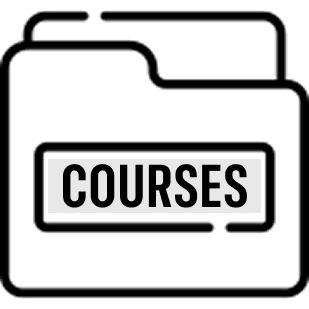
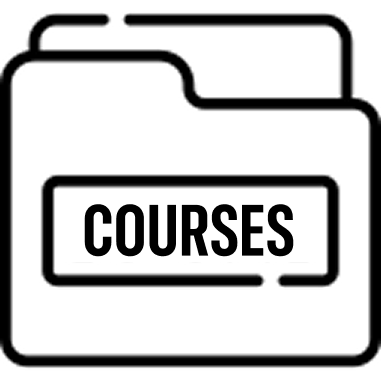
Fix Study Generator

Changed region(s): [[0.2039, 0.5243, 0.8155, 0.699]]

diff --git a/src/App.tsx b/src/App.tsx
@@ -38,7 +38,7 @@ useEffect(() => {
 
   return (
   <>
-    <section className="h-auto xl:h-screen w-full">
+    <section className="h-auto xl:h-screen w-full ">
       <nav className=" px-2 md:px-6 lg:px-6 xl:px-6 2xl:px-6 py-2 flex items-center justify-between mt-3 md:mt-3 lg:mt-0 xl:mt-0 2xl:mt-0 ">
         {/* LOGO */}
         <img src="./logo.png" alt="logo" className="pl-2 h-10 md:pl-5 md:h-16 lg:pl-5 lg:h-16 xl:pl-5 xl:h-16 2xl:pl-5 2xl:h-16 w-auto" />
@@ -111,7 +111,7 @@ useEffect(() => {
           md:text-[28px]
           lg:text-[40px]
           xl:text-[55px]
-          2xl:text-[65px] 
+          2xl:text-[60px] 
           uppercase '
           >start your day by being productive.</p>
           <p className='text-primary-600 font-fustat font-medium 
@@ -150,7 +150,7 @@ useEffect(() => {
             <img src="./landImg.png" alt="landing img" 
             className=' w-[120px] h-[100px] 
             md:min-w-[250px] md:min-h-[260px] md:pt-12
-            lg:min-w-[290px] lg:min-h-[320px] lg:pt-14
+            lg:min-w-[350px] lg:min-h-[360px] lg:pt-14
             xl:min-w-[400px] xl:min-h-[450px] xl:pt-16
             2xl:min-w-[550px] 2xl:min-h-[580px] object-center' />
         </div>
@@ -161,8 +161,8 @@ useEffect(() => {
       <hr className='lg:hidden md:hidden mt-4  w-full border-t opacity-5 border-primary-600 ' />
 
       <section className='w-full mt-4 md:mt-10'>
-        <div className='flex flex-col px-4 md:px-10 lg:px-[110px] xl:px-[180px] 2xl:px-[350px] mb-10'>
-          <p className='flex flex-wrap justify-center items-center gap-x-1 font-fustat text-primary-600 text-sm md:text-lg 2xl:text-2xl mb-10 px-4 text-center'>
+        <div className='flex flex-col px-4 md:px-10 lg:px-[110px] xl:px-[180px] 2xl:px-[350px] mb-20'>
+          <p className='flex flex-wrap justify-center items-center  gap-x-1 font-fustat text-primary-600 text-sm md:text-lg 2xl:text-2xl lg:mb-20 xl:mb-24 2xl:mb-32 px-4 text-center'>
             <span>Your all-in-one study companion &mdash;</span>
             <b>plan, organize,</b>
             <span>and</span>
@@ -386,102 +386,108 @@ useEffect(() => {
     )}
  {/*Developers Section*/}
 <section ref={aboutRef} className="py-10 w-full flex flex-col justify-center">
-    <div className='flex flex-col mt-10 gap-2 justify-center items-center'>
-    <h1 className='text-primary-600 px-4 text-center md:px-[50px] lg:px-[130px] xl:px-[180px] 2xl:px-[350px] w-full font-inter font-extrabold'>Developers</h1>
-    <p className='text-primary-600 font-inter px-4 text-center md:px-[50px] lg:px-[130px] xl:px-[180px] 2xl:px-[350px] mb-10 font-medium'>Meet the developers of Study Buddy.</p>
+    <div className='flex flex-col mt-10 gap-2 justify-center items-center md:items-start'>
+    <h1 className='text-primary-600 px- 4 text-center md:text-left md:px-[50px] lg:px-[150px] xl:px-[180px] 2xl:px-[350px] w-full font-inter font-extrabold'>Developers</h1>
+    <p className='text-primary-600 px-4   font-inter  text-center md:ml-0 md:text-left md:px-[50px] lg:px-0 xl:px-[30px] 2xl:px-[350px] mb-10 font-medium'>Meet the developers of Study Buddy.</p>
 
     {/*Proponents*/}
-    <div className='flex flex-col mt-2 gap-10 px-4 md:px-[60px] lg:px-[160px] xl:px-[200px] 2xl:px-[450px] w-full'>
+<div className='flex flex-col md:flex-row justify-between items-start w-full max-w-6xl mx-auto gap-12 md:gap-8 px-4 md:px-[60px] lg:px-[100px] xl:px-[120px] 2xl:px-[80px]'>
 
-      {/*Programmer & Project Manager*/}
-      <div className='flex flex-col md:flex-row justify-between items-center w-full gap-8 md:gap-0'>
-        <div className='flex flex-row gap-5'>
-          <img src="./profile.png" alt="Programmer"   className='w-16 md:w-24 lg:w-20 2xl:w-28 border border-primary-600 rounded-full shrink-0 select-none'
-            onContextMenu={(e) => e.preventDefault()}
-            draggable={false}/>
-          <div className='flex flex-col justify-center items-start'>
-            <p className='text-primary-600 text-sm md:text-lg lg:text-[16px] 2xl:text-[20px] font-fustat font-extrabold uppercase'>Programmer</p>
-            <p className='text-primary-600 text-xs md:text-md lg:text-[14px] 2xl:text-[16px] font-fustat font-medium'>Casey P. Dellamas</p>
-              <a href="https://mail.google.com/mail/?view=cm&fs=1&to=dellamascasey@gmail.com"
-              target="_blank"
-              rel="noopener noreferrer"
-              title='Email Programmer'
-              className='flex flex-row hover:underline  mt-1 justify-center items-center gap-5'
-            >
+  {/*Column 1: Programmer & QA Tester*/}
+  <div className='flex flex-col gap-10 w-full md:w-1/2'>
 
-              <p className='text-primary-600 text-xs md:text-md lg:text-[14px] 2xl:text-[16px] font-fustat font-medium'>
-              dellamascasey@gmail.com
-              </p>
-            </a>
-          </div>
-        </div>
-        <div className='flex flex-row gap-5'>
-          <img src="./profile.png" alt="Project Manager"   className='w-16 md:w-24 lg:w-20 2xl:w-28 border border-primary-600 rounded-full shrink-0 select-none'
-  onContextMenu={(e) => e.preventDefault()}
-  draggable={false}/>
-          <div className='flex flex-col justify-center items-start'>
-            <p className='text-primary-600 text-sm md:text-lg lg:text-[16px] 2xl:text-[20px] font-fustat font-extrabold uppercase'>Project Manager</p>
-            <p className='text-primary-600 text-xs md:text-md lg:text-[14px] 2xl:text-[16px] font-fustat font-medium'>Eunice Jayce F. De Vero</p>
-            <a href="https://mail.google.com/mail/?view=cm&fs=1&to=eunicedevero@gmail.com"
-              target="_blank"
-              rel="noopener noreferrer"
-              title='Email Project Manager'
-              className='flex flex-row hover:underline  mt-1 justify-center items-center gap-5'
-            >
-
-              <p className='text-primary-600 text-xs md:text-md lg:text-[14px] 2xl:text-[16px] font-fustat font-medium'>
-              eunicedevero@gmail.com
-              </p>
-            </a>
-          </div>
-        </div>
+    {/*Programmer*/}
+    <div className='flex flex-row gap-5'>
+      <img src="./profile.png" alt="Programmer" className='w-16 h-16 md:w-24 md:h-24 lg:w-28 lg:h-28 2xl:w-32 2xl:h-32 object-cover border border-primary-600 rounded-full shrink-0 select-none'
+        onContextMenu={(e) => e.preventDefault()}
+        draggable={false}/>
+      <div className='flex flex-col justify-center items-start'>
+        <p className='text-primary-600 text-sm md:text-lg lg:text-[16px] 2xl:text-[20px] font-fustat font-extrabold uppercase'>Programmer</p>
+        <p className='text-primary-600 text-xs md:text-md lg:text-[14px] 2xl:text-[16px] font-fustat font-medium'>Casey P. Dellamas</p>
+        <a href="https://mail.google.com/mail/?view=cm&fs=1&to=dellamascasey@gmail.com"
+          target="_blank"
+          rel="noopener noreferrer"
+          title='Email Programmer'
+          className='flex flex-row hover:underline mt-1 justify-center items-center gap-5'
+        >
+          <p className='text-primary-600 text-xs md:text-md lg:text-[14px] 2xl:text-[16px] font-fustat font-medium'>
+          dellamascasey@gmail.com
+          </p>
+        </a>
       </div>
-
-      {/*QA Tester & UI Designer*/}
-      <div className='flex flex-col md:flex-row justify-between items-center md:items-end lg:items-end 2xl:items-end w-full gap-8 md:gap-0'>
-        <div className='flex flex-row gap-5'>
-          <img src="./QATester.jpg" alt="QA Tester"   className='w-16 md:w-24 lg:w-20 2xl:w-28 border border-primary-600 rounded-full shrink-0 select-none'
-  onContextMenu={(e) => e.preventDefault()}
-  draggable={false}/>
-          <div className='flex flex-col justify-center items-start'>
-            <p className='text-primary-600 text-sm md:text-lg lg:text-[16px] 2xl:text-[20px] font-fustat font-extrabold uppercase'>QA Tester</p>
-            <p className='text-primary-600 text-xs md:text-md lg:text-[14px] 2xl:text-[16px] font-fustat font-medium'>Joshua L. Mejia</p>
-            <a href="https://mail.google.com/mail/?view=cm&fs=1&to=joshuamejia2266@gmail.com"
-              target="_blank"
-              rel="noopener noreferrer"
-              title='Email QA Tester'
-              className='flex flex-row hover:underline  mt-1 justify-center items-center gap-5'
-            >
-
-              <p className='text-primary-600 text-xs md:text-md lg:text-[14px] 2xl:text-[16px] font-fustat font-medium'>
-              joshuamejia2266@gmail.com
-              </p>
-            </a>
-          </div>
-        </div>
-        <div className='flex flex-row gap-5'>
-          <img src="./UIDesigner.jpg" alt="UI Designer"   className='w-16 md:w-24 lg:w-20 2xl:w-28 border border-primary-600 rounded-full shrink-0 select-none'
-  onContextMenu={(e) => e.preventDefault()}
-  draggable={false}/>
-          <div className='flex flex-col justify-center items-start'>
-            <p className='text-primary-600 text-sm md:text-lg lg:text-[16px] 2xl:text-[20px] font-fustat font-extrabold uppercase'>UI Designer</p>
-            <p className='text-primary-600 text-xs md:text-md lg:text-[14px] 2xl:text-[16px] font-fustat font-medium'>Jerwin L. Zamorao</p>
-            <a href="https://mail.google.com/mail/?view=cm&fs=1&to=zamorajerwin0@gmail.com"
-              target="_blank"
-              rel="noopener noreferrer"
-              title='Email UI Designer'
-              className='flex flex-row hover:underline   mt-1 justify-center items-center gap-5'
-            >
-
-              <p className='text-primary-600 text-xs md:text-md lg:text-[14px] 2xl:text-[16px] font-fustat font-medium'>
-              zamorajerwin0@gmail.com
-              </p>
-            </a>
-          </div>
-        </div>
-      </div>
-
     </div>
+
+    {/*QA Tester*/}
+    <div className='flex flex-row gap-5'>
+      <img src="./QATester.jpg" alt="QA Tester" className='w-16 h-16 md:w-24 md:h-24 lg:w-28 lg:h-28 2xl:w-32 2xl:h-32 object-cover border border-primary-600 rounded-full shrink-0 select-none'
+        onContextMenu={(e) => e.preventDefault()}
+        draggable={false}/>
+      <div className='flex flex-col justify-center items-start'>
+        <p className='text-primary-600 text-sm md:text-lg lg:text-[16px] 2xl:text-[20px] font-fustat font-extrabold uppercase'>QA Tester</p>
+        <p className='text-primary-600 text-xs md:text-md lg:text-[14px] 2xl:text-[16px] font-fustat font-medium'>Joshua L. Mejia</p>
+        <a href="https://mail.google.com/mail/?view=cm&fs=1&to=joshuamejia2266@gmail.com"
+          target="_blank"
+          rel="noopener noreferrer"
+          title='Email QA Tester'
+          className='flex flex-row hover:underline mt-1 justify-center items-center gap-5'
+        >
+          <p className='text-primary-600 text-xs md:text-md lg:text-[14px] 2xl:text-[16px] font-fustat font-medium'>
+          joshuamejia2266@gmail.com
+          </p>
+        </a>
+      </div>
+    </div>
+
+  </div>
+
+  {/*Column 2: Project Manager & UI Designer*/}
+  <div className='flex flex-col gap-10 w-full md:w-1/2'>
+
+    {/*Project Manager*/}
+    <div className='flex flex-row gap-5'>
+      <img src="./profile.png" alt="Project Manager" className='w-16 h-16 md:w-24 md:h-24 lg:w-28 lg:h-28 2xl:w-32 2xl:h-32 object-cover border border-primary-600 rounded-full shrink-0 select-none'
+        onContextMenu={(e) => e.preventDefault()}
+        draggable={false}/>
+      <div className='flex flex-col justify-center items-start'>
+        <p className='text-primary-600 text-sm md:text-lg lg:text-[16px] 2xl:text-[20px] font-fustat font-extrabold uppercase'>Project Manager</p>
+        <p className='text-primary-600 text-xs md:text-md lg:text-[14px] 2xl:text-[16px] font-fustat font-medium'>Eunice Jayce F. De Vero</p>
+        <a href="https://mail.google.com/mail/?view=cm&fs=1&to=eunicejaycedevero@gmail.com"
+          target="_blank"
+          rel="noopener noreferrer"
+          title='Email Project Manager'
+          className='flex flex-row hover:underline mt-1 justify-center items-center gap-5'
+        >
+          <p className='text-primary-600 text-xs md:text-md lg:text-[14px] 2xl:text-[16px] font-fustat font-medium'>
+          eunicejaycedevero@gmail.com
+          </p>
+        </a>
+      </div>
+    </div>
+
+    {/*UI Designer*/}
+    <div className='flex flex-row gap-5'>
+      <img src="./UIDesigner.jpg" alt="UI Designer" className='w-16 h-16 md:w-24 md:h-24 lg:w-28 lg:h-28 2xl:w-32 2xl:h-32 object-cover border border-primary-600 rounded-full shrink-0 select-none'
+        onContextMenu={(e) => e.preventDefault()}
+        draggable={false}/>
+      <div className='flex flex-col justify-center items-start'>
+        <p className='text-primary-600 text-sm md:text-lg lg:text-[16px] 2xl:text-[20px] font-fustat font-extrabold uppercase'>UI Designer</p>
+        <p className='text-primary-600 text-xs md:text-md lg:text-[14px] 2xl:text-[16px] font-fustat font-medium'>Jerwin L. Zamorao</p>
+        <a href="https://mail.google.com/mail/?view=cm&fs=1&to=zamorajerwin0@gmail.com"
+          target="_blank"
+          rel="noopener noreferrer"
+          title='Email UI Designer'
+          className='flex flex-row hover:underline mt-1 justify-center items-center gap-5'
+        >
+          <p className='text-primary-600 text-xs md:text-md lg:text-[14px] 2xl:text-[16px] font-fustat font-medium'>
+          zamorajerwin0@gmail.com
+          </p>
+        </a>
+      </div>
+    </div>
+
+  </div>
+
+</div>
   </div>
 </section>
   {/*Contact Us Section*/}

diff --git a/src/pages/StudyGenerator.tsx b/src/pages/StudyGenerator.tsx
@@ -34,6 +34,7 @@ const FUNCTION_URL = import.meta.env.VITE_STUDY_GENERATOR_URL as string
 const COOLDOWN_MS = 2 * 60 * 1000 // ── NEW: 2 minutes
 const COOLDOWN_KEY = 'studygen_cooldown_until' // ── NEW: localStorage key
 
+
 // Session storage keys
 export const SESSION_KEY_RESULT = 'studygen_result'
 
@@ -96,7 +97,7 @@ function CoursePicker({
   }
 
   return (
-    <div className='fixed inset-0 bg-black bg-opacity-50 flex items-center justify-center z-50'>
+    <div className='fixed inset-0  bg-black bg-opacity-50 flex items-center justify-center z-50'>
       <div className='bg-white rounded-2xl shadow-2xl w-[95%] max-w-xl flex flex-col max-h-[80vh] overflow-hidden'>
         <div className='flex items-center justify-between px-6 py-4 bg-primary-600 rounded-t-2xl'>
           <p className='text-white font-roboto font-bold text-xl uppercase'>
@@ -207,6 +208,19 @@ function StudyGenerator() {
   const cooldownRef = useRef<ReturnType<typeof setInterval> | null>(null) // ── NEW
   const items = [10, 20, 30, 40, 50]
   const isOnline = useNetworkStatus()
+
+//scroll sa div ng options
+  const generateSectionRef = useRef<HTMLDivElement>(null)
+  useEffect(() => {
+    if (uploadedFile && generateSectionRef.current) {
+      const timeout = setTimeout(() => {
+        generateSectionRef.current?.scrollIntoView({ behavior: 'smooth', block: 'start' })
+      }, 100)
+      return () => clearTimeout(timeout)
+    }
+  }, [uploadedFile])
+
+
   // ── NEW: initialize cooldown from localStorage on mount ──────────────────
   useEffect(() => {
     const stored = localStorage.getItem(COOLDOWN_KEY)
@@ -397,20 +411,20 @@ const canGenerate = !!uploadedFile && !!selectItems && !isGenerating && !isCooli
               </div>
             )}
             {/* ─────────────────────── */}
-
+          <hr className='w-52 md:w-[500px] lg:w-[600px] mt-5 md:mt-10 mx-auto border-t border-primary-600 mb-1 md:mb-3' />
             {/* File Source Panel */}
-            <div className='flex flex-col justify-center mt-10 gap-5 items-center w-full max-w-[800px] border-4 bg-slate-100 border-primary-600 shadow-[0_4px_8px_rgba(100,100,100,1)] rounded-3xl px-6 py-8'>
-              <p className='lg:text-xl md:text-xl text-primary-600 font-bold font-fustat'>
+            <div className='flex flex-col justify-center mt-0 md:mt-5 gap-5 items-center w-full max-w-[800px]  px-6 py-8'>
+              <p className='text-sm lg:text-2xl md:text-xl text-primary-600 font-bold font-fustat mb-2 md:mb-10'>
                 Choose where to access your files
               </p>
 
-              <div className='flex flex-row gap-5 md:gap-16 lg:gap-16'>
-                <div className='flex flex-col gap-3 justify-start items-center'>
-                  <img className='w-20 md:w-32 lg:w-32' src='Localbtn.png' alt='localbtnicon' />
+              <div className='flex flex-row  w-full justify-center items-center gap-2 md:gap-10 lg:gap-16'>                
+                <div className='flex flex-col gap-3 justify-start items-center border-2 md:border-4  border-primary-600 rounded-xl md:rounded-3xl px-7 py-4 md:px-12 md:py-8 '>
+                  <img className='w-16 h-16 md:w-32 md:h-32  lg:w-32' src='Localbtn.png' alt='localbtnicon' />
                   <button
                     onClick={() => { setFileError(''); setSuggestedMax(null); fileInputRef.current?.click() }}
                     disabled={isGenerating || !isOnline}
-                    className='bg-primary-600 text-white rounded-md text-sm md:text-xl lg:text-xl font-roboto font-bold px-3 py-1 md:px-5 md:py-2 lg:px-8 lg:py-2 hover:bg-primary-500'
+                    className='bg-primary-600 w-24  md:w-44 text-xs text-white rounded-md md:text-xl lg:text-sm font-roboto font-bold px-3 py-1 md:px-5 md:py-2 lg:px-8 lg:py-2 hover:bg-primary-500'
                   >
                     Local Files
                   </button>
@@ -418,12 +432,12 @@ const canGenerate = !!uploadedFile && !!selectItems && !isGenerating && !isCooli
 
                 <p className='text-center lg:mt-16 text-primary-600 lg:text-xl md:text-xl md:mt-16 font-bold font-fustat'>or</p>
 
-                <div className='flex flex-col gap-3 justify-start items-center'>
-                  <img className='w-20 md:w-32 lg:w-32' src='Coursesbtn.png' alt='coursesbtnicon' />
+                <div className='flex flex-col gap-3 justify-start items-center border-2 md:border-4  border-primary-600 rounded-xl md:rounded-3xl px-7 py-4 md:px-12 md:py-8 '>
+                  <img className='w-16 h-16 md:w-32 md:h-32  lg:w-32 ' src='Coursesbtn.png' alt='coursesbtnicon' />
                   <button
                     onClick={() => { setFileError(''); setSuggestedMax(null); setShowCoursePicker(true) }}
                     disabled={coursesLoading || isGenerating || !isOnline}
-                    className='bg-primary-600 text-sm text-white rounded-md md:text-xl lg:text-xl font-roboto font-bold px-3 py-1 md:px-5 md:py-2 lg:px-8 lg:py-2 hover:bg-primary-500'
+                    className='bg-primary-600 w-24  md:w-44 text-xs text-white rounded-md md:text-xl lg:text-sm font-roboto font-bold px-3 py-1 md:px-5 md:py-2 lg:px-8 lg:py-2 hover:bg-primary-500'
                   >
                     {coursesLoading ? 'Loading...' : 'Course Files'}
                   </button>
@@ -440,7 +454,7 @@ const canGenerate = !!uploadedFile && !!selectItems && !isGenerating && !isCooli
               />
 
               {uploadedFile && (
-                <div className='w-full mt-2 flex items-center gap-4 bg-white bg-opacity-90 border-2 border-primary-600 rounded-xl px-4 py-3'>
+                <div ref={generateSectionRef} className='w-full mt-2 flex items-center gap-4 bg-white bg-opacity-90 border-2 border-primary-600 rounded-xl px-4 py-3'>
                   <img src={fileIconSrc} alt={uploadedFile.type} className='w-10 h-10 object-contain flex-shrink-0' />
                   <div className='flex-1 min-w-0'>
                     <p className='font-roboto font-bold text-primary-600 text-sm truncate'>{uploadedFile.name}</p>
@@ -476,10 +490,12 @@ const canGenerate = !!uploadedFile && !!selectItems && !isGenerating && !isCooli
               </button>
             )}
 
-            <p className='mt-6 text-center text-xs lg:text-sm md:text-sm text-primary-600'>
+            <p className='  mt-6 text-center text-xs lg:text-sm md:text-sm text-primary-600'>
               <i><strong>Reminder:</strong> All files generated by Study Buddy may not be 100% accurate.
-              Users are advised to review the generated files before proceeding. Thank you.</i>
+              </i>
             </p>
+            <p className='  mt-1 text-center text-xs lg:text-sm md:text-sm text-primary-600'>
+              <i>Users are advised to review the generated files before proceeding. Thank you.</i></p>
 
             {uploadedFile && (
               <div className='mt-8 flex flex-col justify-start items-center min-w-full'>

diff --git a/src/pages/Notes.tsx b/src/pages/Notes.tsx
@@ -390,7 +390,7 @@ function Notes() {
                 <div
                   key={note.id}
                   onClick={() => openViewModal(note)}
-                  className='relative bg-slate-50 border-2 border-primary-600 shadow-[0_1px_2px_rgba(0,0,0,1)] rounded-xl p-5 w-full lg:w-64  lg:min-h-48  2xl:min-h-48 flex flex-col  cursor-pointer hover:shadow-md transition-shadow'
+                  className='relative bg-slate-50 rounded-xl p-5 w-full lg:w-64  lg:min-h-48  2xl:min-h-48 flex flex-col  cursor-pointer hover:shadow-md transition-shadow'
                 >
                   <div className='flex justify-between items-center'>
                     <p className='font-bold text-primary-600 text-sm lg:text-md truncate flex-1'>{note.title}</p>

diff --git a/src/components/Signup.tsx b/src/components/Signup.tsx
@@ -222,7 +222,7 @@ function Signup({ onSwitchToLogin } : { onSwitchToLogin?: () => void}) {
     `w-full mb-1 text-sm text-[13px] lg:text-[12px] p-2 border border-primary-600 ${touched[field] && fieldErrors[field] ? 'border-red-500 bg-red-50' : ''}`
 
   return (
-    <div className="min-h-screen md:h-auto flex flex-col  lg:flex-row bg-primary-600 2xl:px-[150px]">
+    <div className="min-h-screen md:h-auto flex flex-col md:px-32 lg:flex-row bg-primary-600 2xl:px-[150px]">
 {/* MOBILE HEADER - visible only on mobile */}
 <div className="flex lg:hidden flex-col items-center pt-8 pb-4 px-6 text-center">
   <h1 className="text-white font-inter font-extrabold text-3xl">

diff --git a/src/components/Login.tsx b/src/components/Login.tsx
@@ -146,7 +146,7 @@ const [passwordUpdated] = useState<boolean>(() => {
     `w-full mb-1 xl:text-sm p-2 text-[13px] lg:text-[12px]  border border-primary-600 ${touched[field] && fieldErrors[field] ? 'border-red-500 bg-red-50' : ''}`
 
   return (
-      <div className="min-h-screen flex flex-col lg:flex-row bg-primary-600 2xl:px-[28px]">
+    <div className="min-h-screen md:h-auto flex flex-col md:px-32 lg:flex-row bg-primary-600 2xl:px-[150px]">
 {/* MOBILE HEADER */}
 <div className="flex lg:hidden flex-col items-center pt-8 pb-4 px-6 text-center">
   <h1 className="text-white font-inter font-extrabold text-3xl">

diff --git a/src/pages/ClassSchedule.tsx b/src/pages/ClassSchedule.tsx
@@ -199,10 +199,8 @@ const handleSave = () => {
     return (
       <div className='flex flex-col mt-7 pb-2 bg-primary-600
       bg-gradient-to-br from-[#0f1f3a] to-[#0b1730]
-        shadow-[0_10px_30px_rgba(0,0,0,0.35)]
         rounded-2xl
-        backdrop-blur-xl
-      bg-white/5
+
       
       border border-white/10
         hover:-translate-y-1 hover:shadow-[0_20px_50px_rgba(0,0,0,0.5)]
